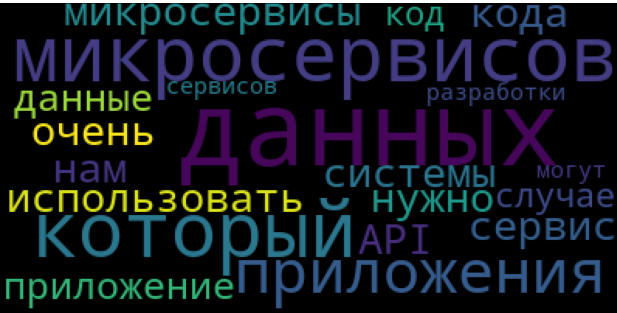
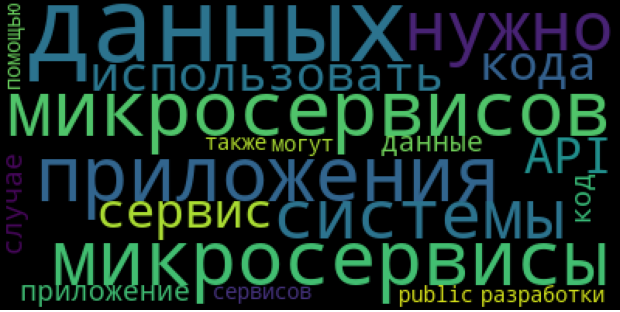
Мелкие правки. Дополнил Readme

diff --git a/parserHabrArticle.py b/parserHabrArticle.py
@@ -67,7 +67,7 @@ def parseArticle_GetKeyPerson(text):
 
 def parseArticle_GetKeyWords(unpreparedText, countMostPopular = 10):
     russian_stopwords = stopwords.words("russian")
-    russian_stopwords.extend(['—', 'это', 'которые'])
+    russian_stopwords.extend(['—', 'это', 'которые', 'очень', 'который', 'нам'])
     unpreparedText = remove_punctuation(unpreparedText)
     unpreparedText = remove_words_from_text(unpreparedText, russian_stopwords)
     text_tokens = word_tokenize(unpreparedText)

diff --git a/task2.py b/task2.py
@@ -13,7 +13,7 @@ names = parseArticle_GetKeyPerson(concatedArticlesText).keys()
 keywords = parseArticle_GetKeyWords(concatedArticlesText, 20)
 
 print('Ключевые персонажи:')
-[print(name) for name in names]
+print(', '.join(names))
 
 print('\nКлючение слова:')
 [print('Слово: \"' + keyword[0] + '\", было использованно: '+ str(keyword[1]) + ' раз') for keyword in keywords]

diff --git a/README.md b/README.md
@@ -1,7 +1,8 @@
 # UniversityLabs
 
 ## Задание на 04.10.2023
-Файл, содержащий код: ```parserHarbSearchPages.py```
+Файл, содержащий код: ```parserHarbSearchPages.py```\
+Функция, которая выполняет поставленную задачу: ```task1()```\
 Результаты работы программы представленны в файле *output.txt*
 
 ## Чекинатор за 01.11.2023
@@ -13,3 +14,21 @@
 - Количество прилагательный в тексте: 277
 - Количество наречий в тексте: 170
 - Количество союзов в тексте: 115
+
+## Задание на 01.11.2023
+Файл, содержащий код: ```task2.py```
+
+**Результаты работы кода:**\
+Ключевые персонажи:\
+*Александр Иванов, Сэм Ньюмен, Ньюман, Сэм Ньюман, Ньюмен, Адам Беллемар, Адам, ...*
+
+Ключение слова:\
+*Слово: "данных", было использованно: 232 раз\
+Слово: "микросервисов", было использованно: 133 раз\
+Слово: "приложения", было использованно: 111 раз\
+Слово: "микросервисы", было использованно: 105 раз\
+Слово: "нужно", было использованно: 94 раз\
+Слово: "системы", было использованно: 90 раз\
+...*
+
+Также открывается новое окно, в котором изображено облако тегов, скриншот из данного файла был сохранен в файле ```wordcloud.png```
